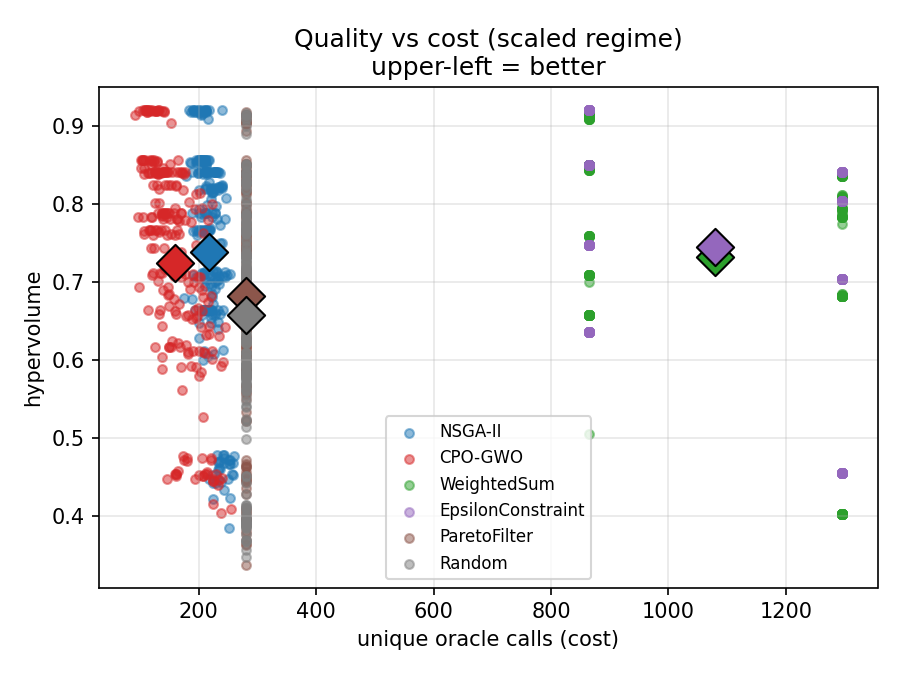
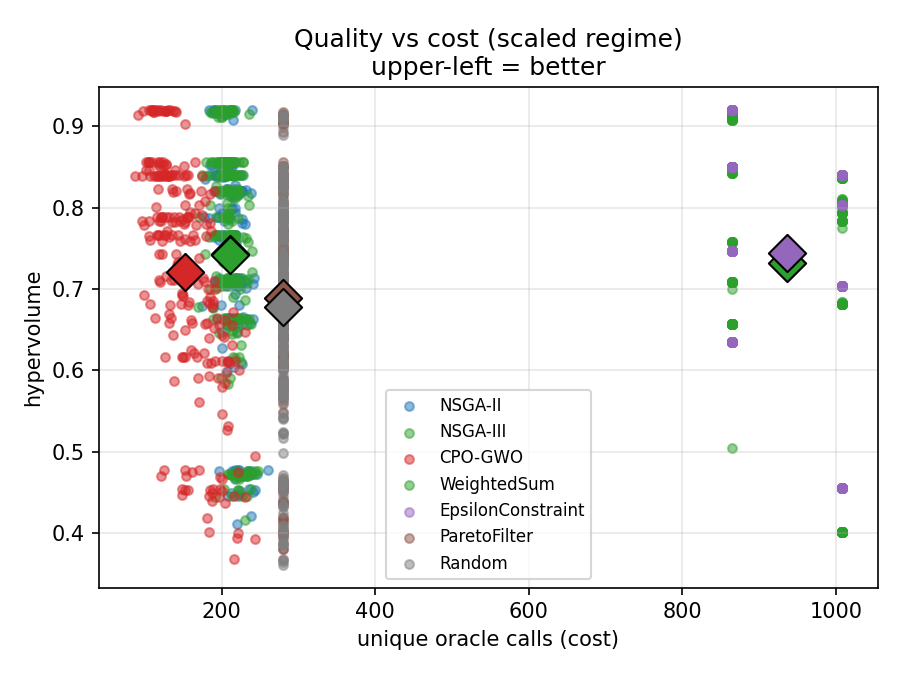
Add minimal example, reproducibility guide, and dependency updates

diff --git a/experiments/run_example.py b/experiments/run_example.py
@@ -1,0 +1,95 @@
+"""
+experiments/run_example.py
+==========================
+Minimal, dependency-light reproducible example for PARETO-EDIT.
+
+Reads a small CSV of SNVs (see examples/example_snvs.csv), runs the surrogate (offline)
+oracle so no downloads / GPU / BE-Hive repos are needed, and writes the Pareto front of
+non-dominated (editor, PAM, protospacer) designs per locus to a CSV.
+
+Usage (from repository root):
+    python -m experiments.run_example --input examples/example_snvs.csv --out out.csv
+
+Input columns : chrom,pos,ref,alt,target_base,required_edit
+Output columns: locus,editor,pam_variant,target_pos,efficiency,bystander_purity,offtarget_risk
+
+The real-model (BE-Hive) fronts reported in the paper are produced by
+experiments/layer2_application.py; this script exists so the pipeline can be run and
+verified end to end from a tiny, self-contained input.
+"""
+from __future__ import annotations
+
+import argparse
+import csv
+import os
+import sys
+
+sys.path.insert(0, os.path.dirname(os.path.dirname(os.path.abspath(__file__))))
+
+from design_space import SNVContext
+from oracles.surrogate import SurrogateOracle
+from oracles.base import CompositeOracle
+from optimizers.nsga2 import NSGA2
+from pipeline import ParetoEditPipeline
+
+
+def parse_edit(s: str):
+    # "A>G" -> ("A","G")
+    s = (s or "").strip().upper()
+    if ">" in s:
+        a, b = s.split(">", 1)
+        return (a.strip(), b.strip())
+    return ("", "")
+
+
+def main():
+    ap = argparse.ArgumentParser(description="Minimal PARETO-EDIT example (surrogate oracle).")
+    ap.add_argument("--input", default="examples/example_snvs.csv",
+                    help="CSV with columns chrom,pos,ref,alt,target_base,required_edit")
+    ap.add_argument("--out", default="out.csv", help="output CSV path")
+    ap.add_argument("--min-efficiency", type=float, default=0.05,
+                    help="drop designs below this predicted efficiency (default 0.05)")
+    args = ap.parse_args()
+
+    oracle = CompositeOracle(
+        efficiency_source=SurrogateOracle(),
+        purity_source=SurrogateOracle(),
+        offtarget_source=SurrogateOracle(),
+    )
+
+    rows_out = []
+    with open(args.input, newline="") as fh:
+        reader = csv.DictReader(fh)
+        for r in reader:
+            snv = SNVContext(
+                chrom=r["chrom"], pos=int(r["pos"]), ref=r["ref"].upper(), alt=r["alt"].upper(),
+                target_base=r.get("target_base", "").strip().upper(),
+                required_edit=parse_edit(r.get("required_edit", "")),
+            )
+            pipe = ParetoEditPipeline(oracle=oracle, optimizer=NSGA2(pop_size=30, n_gen=20))
+            res = pipe.run(snv, seed=0)
+            rep = pipe.report(res, snv, top=10 ** 9)
+            if args.min_efficiency > 0:
+                rep = [x for x in rep if x["efficiency"] >= args.min_efficiency]
+            locus = f'{snv.chrom}:{snv.pos}{snv.ref}>{snv.alt}'
+            print(f"{locus}: Pareto front = {len(rep)} non-dominated designs")
+            for x in rep:
+                rows_out.append({
+                    "locus": locus, "editor": x["editor"], "pam_variant": x["pam_variant"],
+                    "target_pos": x["target_pos"],
+                    "efficiency": round(x["efficiency"], 3),
+                    "bystander_purity": round(x["bystander_purity"], 3),
+                    "offtarget_risk": round(x["offtarget_risk"], 3),
+                })
+
+    cols = ["locus", "editor", "pam_variant", "target_pos",
+            "efficiency", "bystander_purity", "offtarget_risk"]
+    with open(args.out, "w", newline="") as fh:
+        w = csv.DictWriter(fh, fieldnames=cols)
+        w.writeheader()
+        w.writerows(rows_out)
+    print(f"\nWrote {len(rows_out)} designs across all loci to {args.out}")
+
+
+if __name__ == "__main__":
+    main()

diff --git a/REPRODUCIBILITY.md b/REPRODUCIBILITY.md
@@ -1,0 +1,101 @@
+# Reproducibility
+
+This document lists the exact commands to reproduce every result in the manuscript
+"PARETO-EDIT: multi-objective optimization of base-editing guide design". All commands are
+run from the repository root. Random seeds are fixed; fetched genomic windows are cached.
+
+## 0. Environment
+
+```bash
+git clone https://github.com/murat-gok/pareto-edit.git
+cd pareto-edit
+python -m venv .venv && source .venv/bin/activate      # Python 3.11+
+pip install -r requirements.txt
+```
+
+Core dependencies (in `requirements.txt`): numpy, scipy, pandas, matplotlib, scikit-learn, pymoo, requests.
+
+Optional, for the real-model biological analysis only:
+- PyTorch and torchvision (BE-Hive bystander model)
+- the BE-Hive `be_predict_bystander` repository (cloned separately)
+- `variant_summary.txt.gz` from ClinVar (GRCh38)
+- internet access for the Ensembl REST API (first run only; results are cached)
+
+## 1. Minimal example (no downloads, surrogate oracle)
+
+```bash
+python -m experiments.run_example --input examples/example_snvs.csv --out out.csv
+```
+Prints per-locus Pareto-front sizes and writes designs to `out.csv`
+(columns match `examples/expected_output.csv`). Expected console output:
+```
+chr11:5226778A>G: Pareto front = 3 non-dominated designs
+chr2:96254050G>A: Pareto front = 4 non-dominated designs
+chr14:77444311G>A: Pareto front = 1 non-dominated designs
+Wrote 8 designs across all loci to out.csv
+```
+(Design counts use the surrogate oracle and are illustrative; the real-model fronts are
+produced by `experiments/layer2_application.py`.)
+
+## 2. Layer-1: optimizer benchmark (surrogate test function)
+
+```bash
+python experiments/benchmark.py
+```
+Produces the optimizer comparison (NSGA-II, NSGA-III, CPO-GWO, weighted-sum,
+epsilon-constraint, Pareto filter, random) over 8 problems x 30 seeds; writes
+`benchmark_raw.csv`, `benchmark_summary.csv`, `benchmark_wilcoxon.csv` and the HV/efficiency
+figures. Reproduces Supplementary Table S2 and the critical-difference diagram (Figure S1).
+
+## 3. Layer-2: biological application (real BE-Hive, 150 ClinVar loci)
+
+Requires PyTorch, the BE-Hive repo, and `variant_summary.txt.gz`.
+
+```bash
+# primary analysis (direct-model editors, minimum-efficiency threshold)
+python experiments/layer2_application.py \
+    --bystander ./be_predict_bystander --celltype mES \
+    --clinvar variant_summary.txt.gz --n 150 \
+    --direct-only --min-efficiency 0.05 \
+    --out-json layer2_full_direct.json
+
+# off-target robustness (aggregate-CFD)
+python experiments/layer2_application.py \
+    --bystander ./be_predict_bystander --celltype mES \
+    --clinvar variant_summary.txt.gz --n 150 \
+    --direct-only --min-efficiency 0.05 --aggregate-offtarget \
+    --out-json layer2_full_aggot.json
+```
+Reproduces Section 3.2, Table 1, and the 150-locus statistics (mean front size 3.9;
+19% of loci with no high-purity option; mean best purity/efficiency 0.72/0.79).
+
+On a machine with a CUDA device mismatch, force CPU with `CUDA_VISIBLE_DEVICES=""`.
+
+## 4. Tool comparison (front vs single-composite recommendation)
+
+```bash
+PYTHONPATH=. python experiments/tool_comparison_run.py \
+    --bystander ./be_predict_bystander --celltype mES \
+    --clinvar variant_summary.txt.gz --n 150 \
+    --out-json tool_comparison.json
+```
+Reproduces Section 3.4 (single pick on front 150/150; mean 4.5 extra non-dominated designs;
+activity-first higher-purity hidden at 144/150).
+
+## 5. Measured-purity validation (Arbab 2020)
+
+```bash
+PYTHONPATH=. python experiments/purity_recovery_run.py \
+    --pkl-dir <ARBAB_FIGSHARE_DIR> --cell HEK293T \
+    --out-json purity_recovery.json
+```
+Requires the Arbab 2020 processed data (figshare doi:10.6084/m9.figshare.10678097).
+Reproduces Section 3.5 (measured purity 0.74 vs 0.29; Wilcoxon P ~ 8e-18).
+
+## Data sources and versions
+- ClinVar `variant_summary.txt.gz`, GRCh38 (NCBI)
+- GRCh38 reference sequence, Ensembl REST API release 116
+- BE-dataHIVE (Schneider and Minary, 2024; doi:10.1186/s12859-024-05898-0)
+- Arbab et al. (2020) genotype-resolved screens (doi:10.1016/j.cell.2020.05.037;
+  processed data doi:10.6084/m9.figshare.10678097)
+- Doench et al. (2016) CFD matrices, via CRISPOR

diff --git a/README.md b/README.md
@@ -88,7 +88,27 @@ for r in pipe.report(res, snv):
           "offtgt", round(r["offtarget_risk"], 2))
 ```
 
-Run scripts as modules from the project root, e.g.:
+### Minimal example (no downloads, surrogate oracle)
+
+A small self-contained test input is provided in `examples/`. From the project root:
+
+```bash
+python -m experiments.run_example --input examples/example_snvs.csv --out out.csv
+```
+
+This runs the surrogate (offline) oracle, so it needs no downloads or GPU. It prints each
+locus's Pareto-front size and writes the non-dominated designs to `out.csv`, whose columns
+(`locus, editor, pam_variant, target_pos, efficiency, bystander_purity, offtarget_risk`)
+match `examples/expected_output.csv`. Expected console output:
+
+```
+chr11:5226778A>G: Pareto front = 3 non-dominated designs
+chr2:96254050G>A: Pareto front = 4 non-dominated designs
+chr14:77444311G>A: Pareto front = 1 non-dominated designs
+Wrote 8 designs across all loci to out.csv
+```
+
+Run the larger experiments as modules from the project root, e.g.:
 
 ```bash
 python -m experiments.benchmark --seeds 30 --per-chem 4   # Layer-1 benchmark
@@ -115,22 +135,33 @@ oracles/
   efficiency_calibration.py  quantile-map surrogate efficiency to BE-dataHIVE measurements
 data/
   clinvar.py, genome.py, be_datahive.py   data loaders
+optimizers/
+  nsga3.py                 from-scratch NSGA-III (reference-point niching; numpy-only)
 experiments/
-  benchmark.py             Layer-1 benchmark harness (6 methods)
+  benchmark.py             Layer-1 benchmark harness (7 methods incl. NSGA-III)
   layer2_application.py    Layer-2 real-model application over ClinVar loci
   ablation.py              objective-dropping + hyperparameter sensitivity
+  tool_comparison_run.py   front vs single-composite recommendation
+  purity_recovery_run.py   measured-purity validation (Arbab 2020)
+  train_efficiency_model.py  sequence-trained efficiency model (grouped train/test split)
   efficiency_recovery_run.py  guide-level efficiency recovery on BE-dataHIVE targets
   fetch_be_datahive.py     resilient BE-dataHIVE downloader
+  run_example.py           minimal end-to-end example (surrogate oracle)
+examples/
+  example_snvs.csv         small test input (3 pathogenic SNVs)
+  expected_output.csv      example Pareto-front output
 ```
 
 ---
 
 ## Reproducing the paper
 
-The exact command sequence that produces every number in the manuscript (benchmark, 150-locus
-application, ablations, recovery) is documented in the development tree's run guide. In brief:
-fit the efficiency calibration, run the Layer-1 benchmark, run the Layer-2 application over 150
-ClinVar loci with the real BE-Hive/CFD oracles, then run the ablations and recovery.
+The exact command sequence that produces every number in the manuscript is documented in
+[`REPRODUCIBILITY.md`](REPRODUCIBILITY.md). In brief: run the minimal example
+(`examples/`) to verify the install, run the Layer-1 benchmark (7 optimizers, surrogate),
+train the efficiency model with a protospacer-grouped split, then run the Layer-2 application
+over 150 ClinVar loci with the real BE-Hive/CFD oracles, followed by the tool comparison,
+the measured-purity validation (Arbab 2020), and the ablations.
 
 ---
 

diff --git a/examples/README.md b/examples/README.md
@@ -1,0 +1,27 @@
+# Minimal reproducible example
+
+This folder contains a small, self-contained test input so that reviewers (and users)
+can run PARETO-EDIT end to end without downloading the large ClinVar / BE-dataHIVE files.
+
+## Files
+- `example_snvs.csv` — three pathogenic SNVs (input). Columns:
+  - `chrom, pos, ref, alt` — variant coordinates (GRCh38)
+  - `target_base` — the sense-strand base the editor deaminates
+  - `required_edit` — the full correction conversion (e.g. `A>G` for a G>A lesion)
+- `expected_output.csv` — an example of the Pareto-front designs the tool returns for the
+  locus `chr2:96254050 G>A`, with columns:
+  `locus, editor, pam_variant, target_pos, efficiency, bystander_purity, offtarget_risk`.
+
+## Run
+
+From the repository root:
+
+```bash
+python -m experiments.run_example --input examples/example_snvs.csv --out out.csv
+```
+
+This runs the surrogate (offline) oracle so it needs no downloads or GPU. It prints each
+locus's Pareto-front size and writes the non-dominated designs to `out.csv`, whose columns
+match `expected_output.csv`. Numerical values from the surrogate oracle are illustrative;
+the real-model (BE-Hive) fronts reported in the paper are produced by
+`experiments/layer2_application.py` (see the main README).
